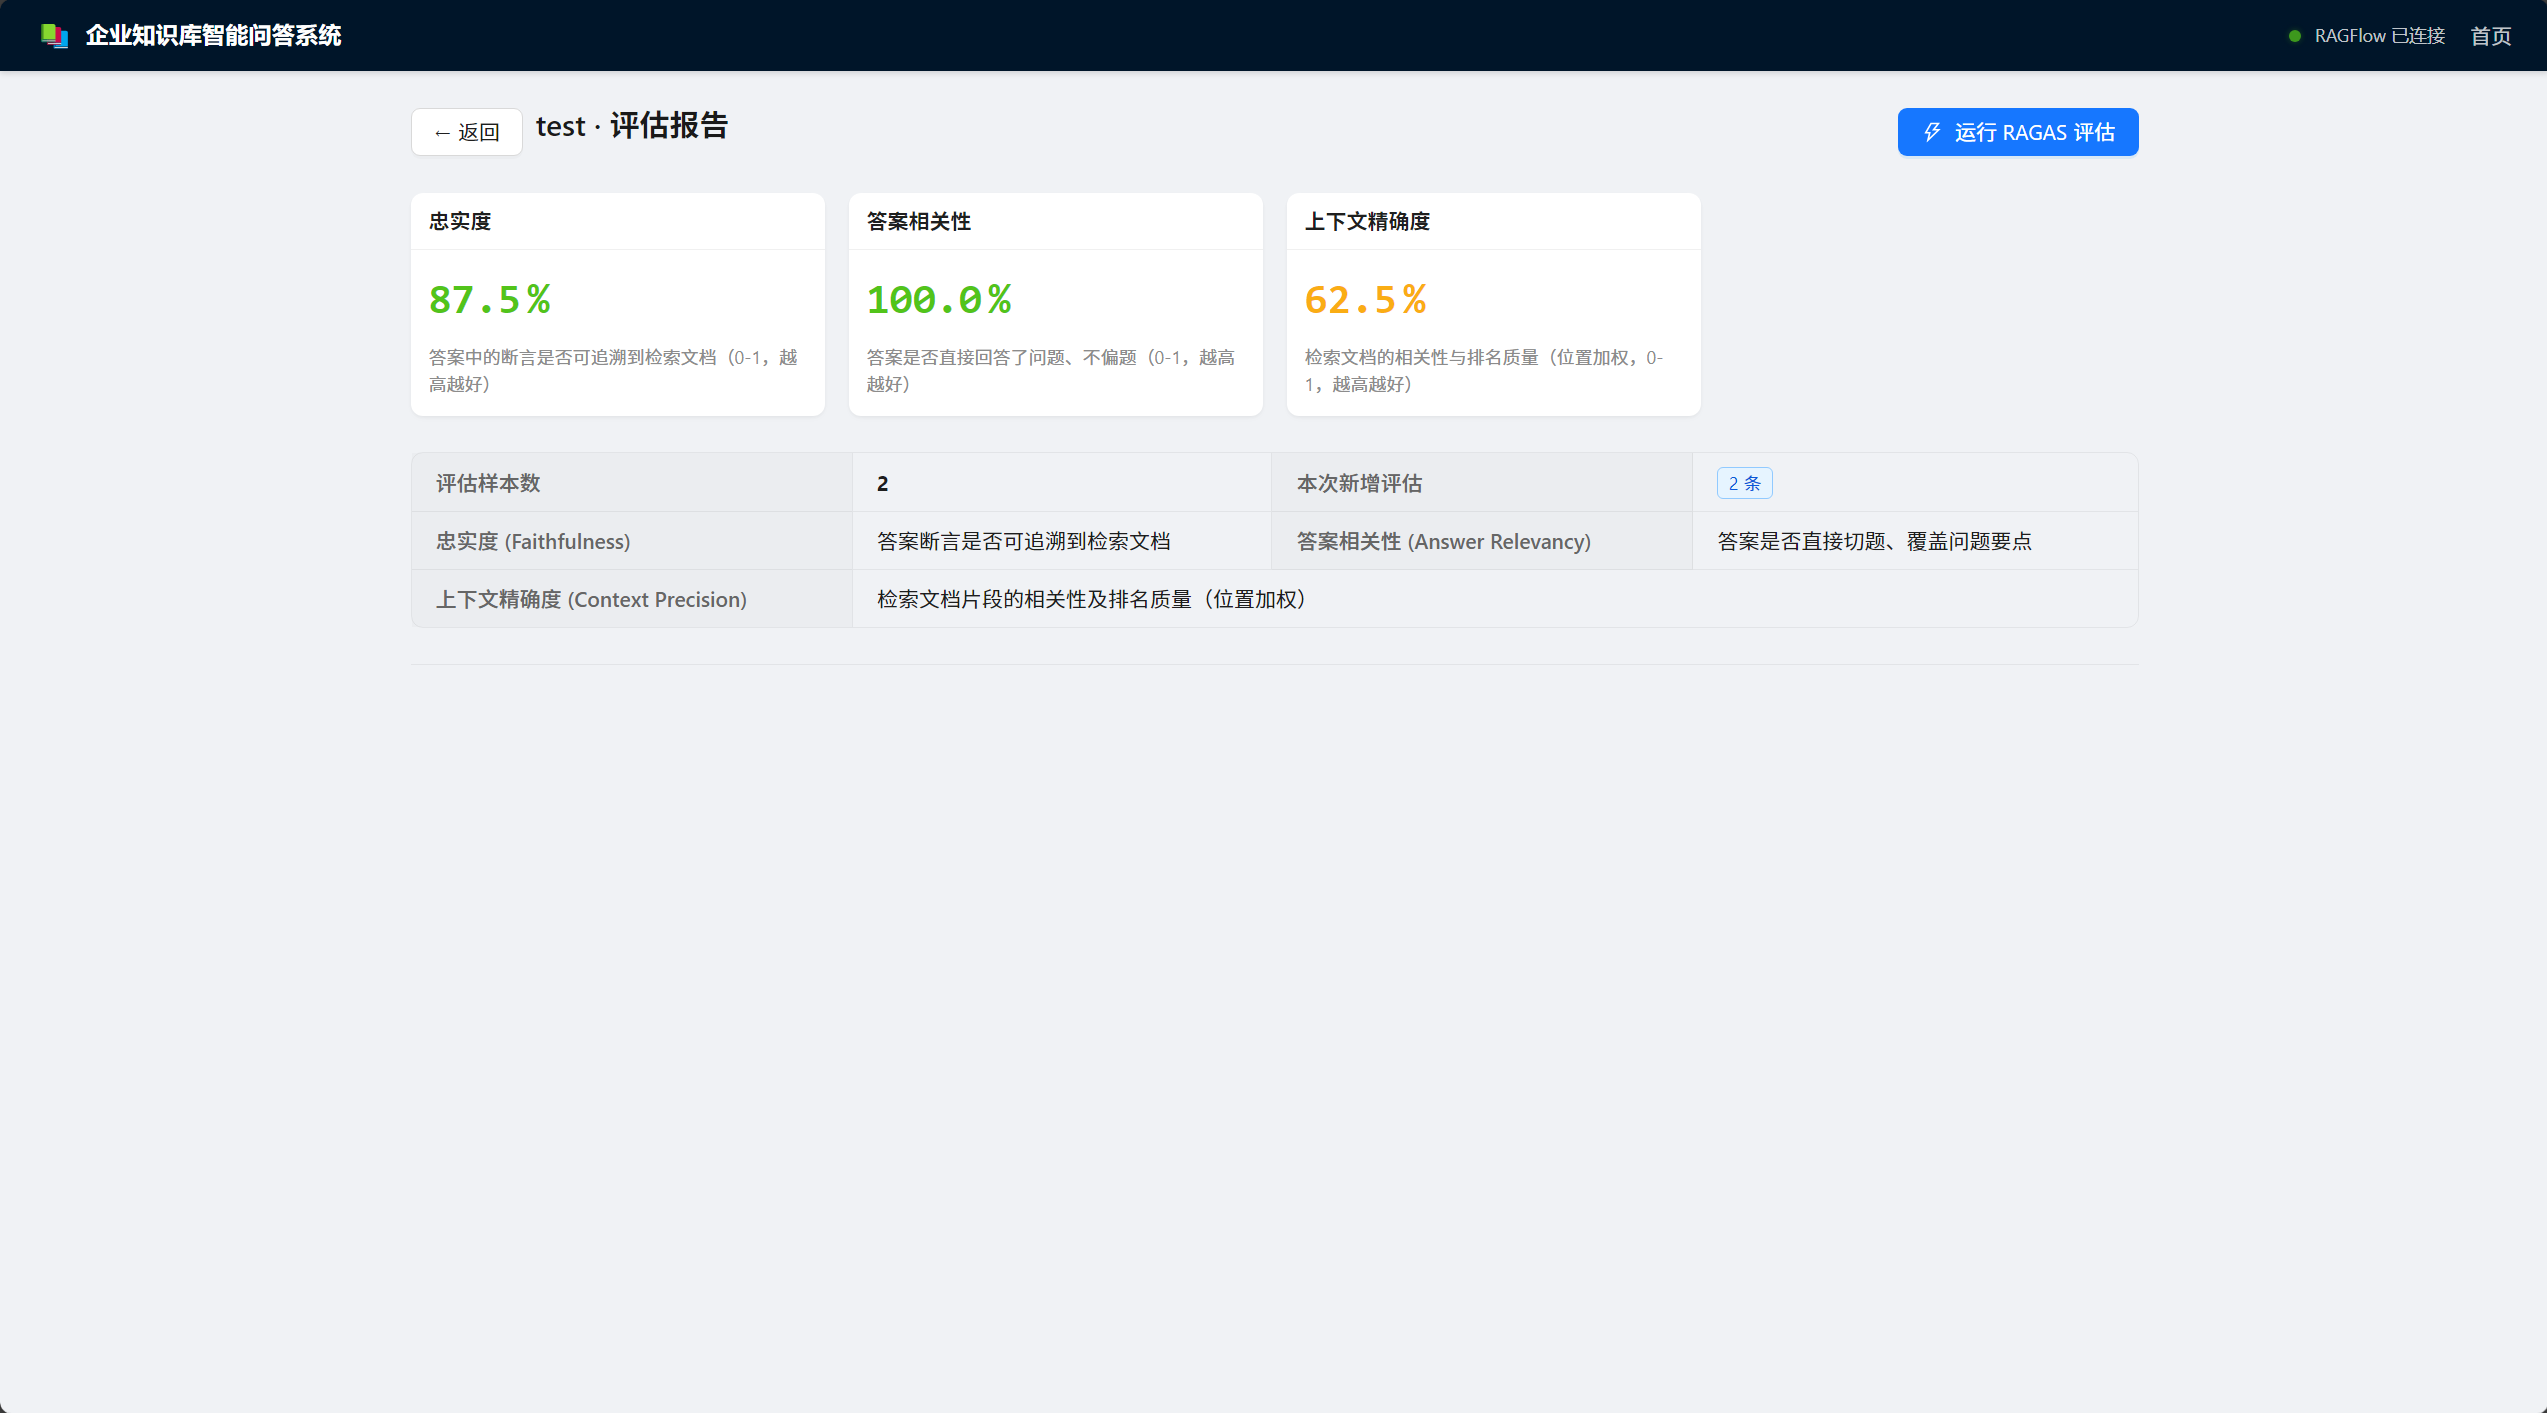
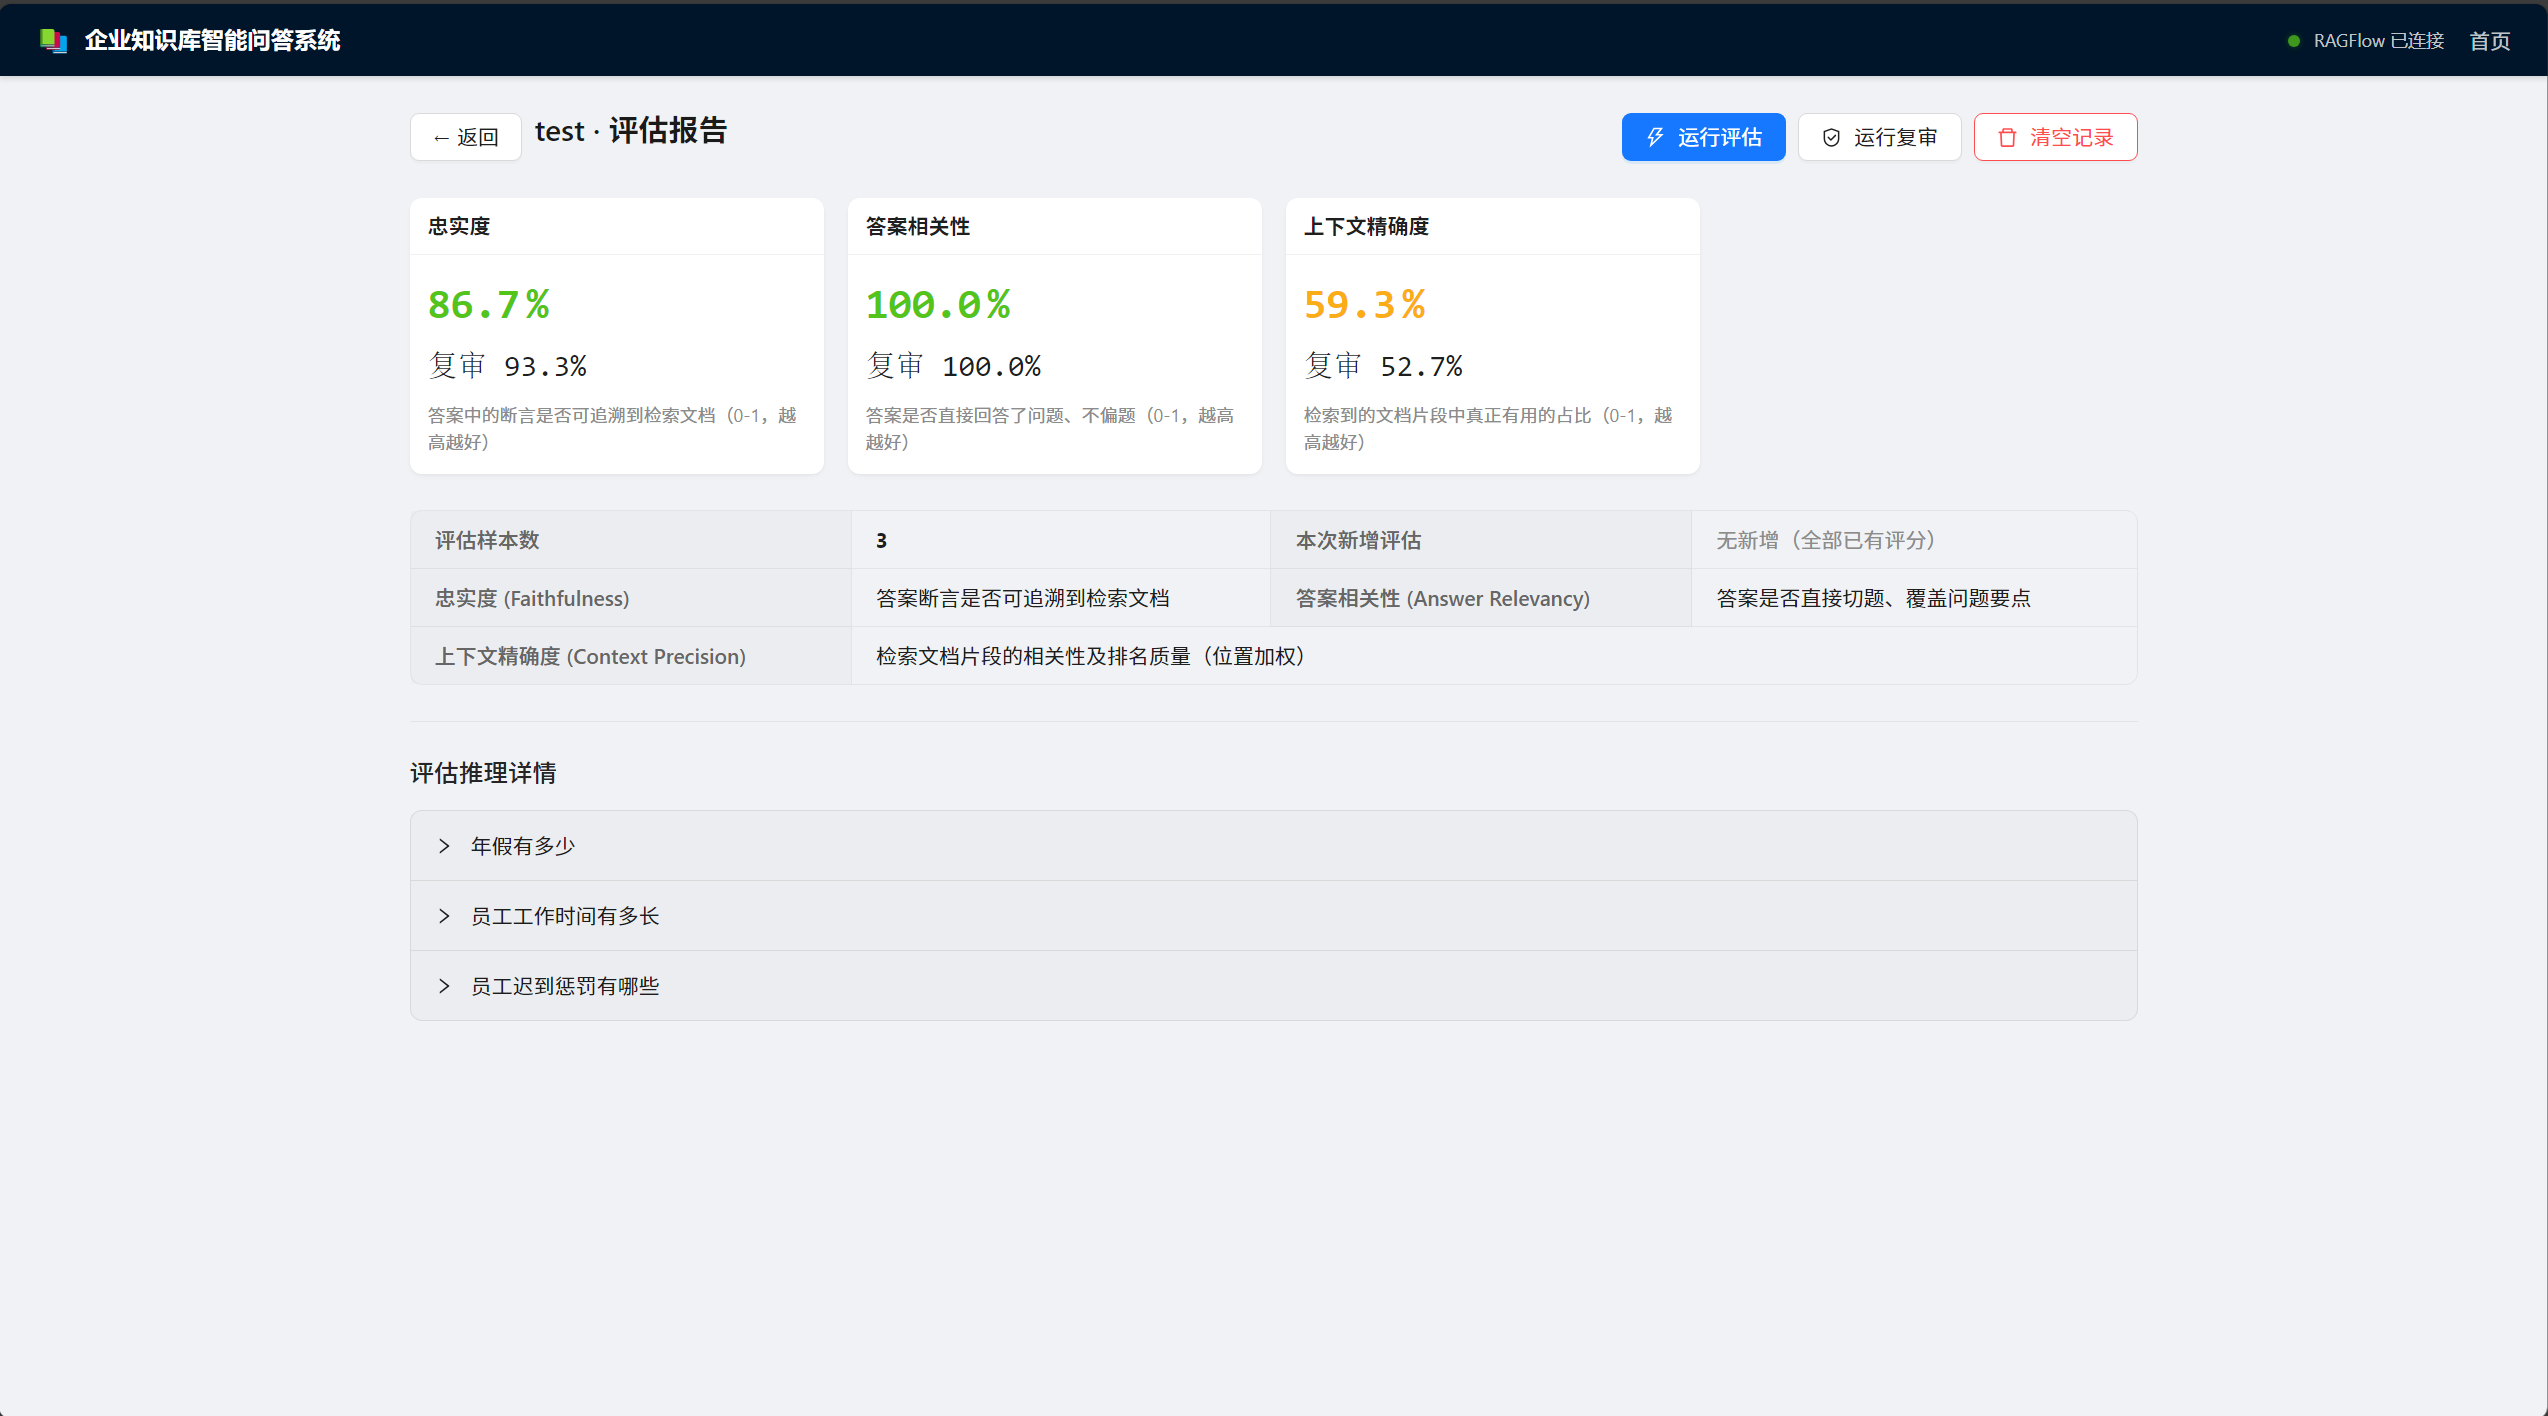
docs: 更新 README 截图和架构描述
- 替换评估报告截图为最新 ragas 评估页面
- 新增评估推理详情截图
- 更新核心技术组件表（新增 DashScope、Kimi）
- 更新架构图多厂商 LLM 布局
- 更新 RAGAS 评估详解（多厂商分工、复审环节、推理可见）
- 更新设计决策表
- 更新 API 参考表（新增 review/details/records 端点）

diff --git a/README.md b/README.md
@@ -42,16 +42,18 @@
 |---------|---------------|
 | ![智能问答](docs/images/qa-chat.png) | ![评估报告](docs/images/eval-report.png) |
 
-| RAGFlow 文档引擎 |
-|-----------------|
-| ![RAGFlow控制台](docs/images/ragflow-console.png) |
+| 评估推理详情 | RAGFlow 文档引擎 |
+|------------|-----------------|
+| ![评估推理详情](docs/images/eval-detail.png) | ![RAGFlow控制台](docs/images/ragflow-console.png) |
 
 ### 核心技术组件
 
 | 组件 | 作用 | 官方地址 |
 |------|------|---------|
 | [RAGFlow](https://github.com/infiniflow/ragflow) | 文档解析、分块、向量化、混合检索 | https://ragflow.io/ |
-| [DeepSeek](https://platform.deepseek.com/) | LLM 生成与评估 | https://api.deepseek.com |
+| [DeepSeek](https://platform.deepseek.com/) | Q&A 问答生成 | https://api.deepseek.com |
+| [DashScope](https://dashscope.aliyun.com/) | Qwen 评估模型 | https://dashscope.aliyun.com/ |
+| [Kimi (Moonshot)](https://platform.moonshot.cn/) | 跨厂商复审模型 | https://platform.moonshot.cn/ |
 | [RAGAS](https://github.com/vibrantlabsai/ragas) | RAG 质量评估框架 | https://docs.ragas.io/ |
 | [FastAPI](https://fastapi.tiangolo.com/) | 后端 API 框架 | https://github.com/fastapi/fastapi |
 | [Ant Design Vue](https://antdv.com/) | 前端 UI 组件库 | https://github.com/vueComponent/ant-design-vue |
@@ -78,15 +80,16 @@ FastAPI 后端 (Python 3.11)
   ├─ evaluation/runner.py
   │   ├─ Faithfulness 评估（陈述拆解 → 逐条验证）
   │   ├─ Answer Relevancy 评估（问题要点覆盖检查）
-  │   └─ Context Precision 评估（位置加权 Precision@k）
+  │   ├─ Context Precision 评估（位置加权 Precision@k）
+  │   └─ 复审 Review（跨厂商复核，可独立触发）
   │
   ▼
-┌──────────┬──────────────────┬─────────────────┐
-│  MySQL   │     RAGFlow      │   DeepSeek API  │
-│  元数据   │  文档解析/分块    │  deepseek-v4-pro│
-│  聊天记录 │  向量化/混合检索   │  deepseek-v4-flash│
-│  评估数据 │  (Docker 部署)    │  (评估)          │
-└──────────┴──────────────────┴─────────────────┘
+┌──────────┬──────────────────┬─────────────────────────────────┐
+│  MySQL   │     RAGFlow      │   多厂商 LLM                     │
+│  元数据   │  文档解析/分块    │   Q&A: DeepSeek (deepseek-v4-pro)│
+│  聊天记录 │  向量化/混合检索   │   评估: DashScope/Qwen (qwen-plus)│
+│  评估数据 │  (Docker 部署)    │   复审: Kimi (kimi-k2.5)          │
+└──────────┴──────────────────┴─────────────────────────────────┘
 ```
 
 **文档入库流水线：** 上传 → RAGFlow 解析 + 分块 + Embedding → MySQL 记录状态
@@ -398,10 +401,11 @@ curl -X POST http://localhost:8000/api/v1/eval/run \
 
 ### 设计要点
 
-- **评估模型**：使用 `deepseek-v4-flash`（成本远低于 v4-pro，评估场景只需简单判断）
-- **确定性输出**：`temperature=0` + `seed=42`，同一输入始终得到相同分数
+- **多厂商分工**：Q&A 用 DeepSeek，评估用 DashScope/Qwen，复审用 Kimi，避免同一模型自评偏差
+- **独立复审环节**：复审为单独按钮触发，可对已评估记录进行跨厂商复核，调整幅度 > 0.1 时采纳复审分数
+- **并发执行**：3 项指标并发评估 + 3 项指标并发复审，信号量控制防 API 限流
 - **增量评估**：已评分的条目自动跳过，避免重复消耗 token
-- **并发执行**：3 个样本 + 3 个指标并发调用，评估速度提升约 3 倍
+- **推理可见**：评估详情页完整展示 AI 的拆解声明、逐条判定和理由，复审理由同时展示
 
 ---
 
@@ -422,9 +426,12 @@ curl -X POST http://localhost:8000/api/v1/eval/run \
 | `GET` | `/api/v1/qa/history/{kb_id}` | 获取历史问答记录 |
 | `DELETE` | `/api/v1/qa/session/{kb_id}/{sid}` | 删除对话会话 |
 | `POST` | `/api/v1/eval/run` | 运行 RAGAS 评估 |
-| `GET` | `/api/v1/eval/report/{kb_id}` | 获取评估报告 |
+| `POST` | `/api/v1/eval/review` | 运行跨厂商复审 |
+| `GET` | `/api/v1/eval/report/{kb_id}` | 获取评估报告（含复审分数） |
 | `GET` | `/api/v1/eval/data/{kb_id}` | 获取评估原始数据 |
-| `GET` | `/api/v1/health` | 健康检查（含 RAGFlow 连通性） |
+| `GET` | `/api/v1/eval/details/{kb_id}` | 获取评估推理详情（含复审理由） |
+| `DELETE` | `/api/v1/eval/records/{kb_id}` | 清空评估记录 |
+| `GET` | `/api/v1/health` | 健康检查（含三厂商连通性） |
 
 ---
 
@@ -446,7 +453,7 @@ MP/
 ├── services/                  # 业务逻辑层
 │   ├── kb_service.py          #   知识库业务 + RAGFlow dataset 管理
 │   ├── qa_service.py          #   RAG 管道：关键词提取 → 检索 → 生成
-│   └── llm_service.py         #   DeepSeek 调用（流式 + JSON 模式 + seed 固定）
+│   └── llm_service.py         #   多厂商 LLM 调用（DeepSeek/DashScope/Kimi，流式+JSON）
 │
 ├── models/                    # 数据层
 │   ├── schemas.py             #   Pydantic 请求/响应校验
@@ -454,7 +461,7 @@ MP/
 │
 ├── evaluation/                # RAGAS 评估子系统
 │   ├── collector.py           #   从 ChatHistory + EvaluationRecord 采集数据
-│   └── runner.py              #   LLM-as-Judge：3 指标 × 3 并发 × 增量跳过
+│   └── runner.py              #   LLM-as-Judge：3 指标并发评估 + 跨厂商复审
 │
 ├── core/                      # 本地降级模块（RAGFlow 离线时启用）
 │   ├── parser.py              #   PyMuPDF + python-docx 文档解析
@@ -480,12 +487,12 @@ MP/
 | 决策 | 选择 | 理由 |
 |------|------|------|
 | 文档引擎 | RAGFlow | 开箱即用的解析/分块/向量化/混合检索/Reranker，避免手写整套 RAG 管道 |
-| LLM 模型 | DeepSeek | 中文能力强、成本为 OpenAI 的 1/10、API 完全兼容 OpenAI SDK |
-| 评估模型 | deepseek-v4-flash | 评估场景只需 yes/no 判断，flash 比 pro 快 3 倍且便宜 |
+| Q&A LLM | DeepSeek | 中文能力强、成本为 OpenAI 的 1/10、API 完全兼容 OpenAI SDK |
+| 评估模型 | DashScope/Qwen | 无并发限制，避免自评估偏差（与 Q&A 不同厂商） |
+| 复审模型 | Kimi | 跨厂商第三方复审，复核评估者打分是否合理 |
 | 流式传输 | SSE | 单向流式场景 SSE 比 WebSocket 更简单，CDN/代理兼容性好 |
-| 评估一致性 | temperature=0 + seed=42 | 结构化评估 Prompt + 确定性参数，确保每次评估结果一致 |
+| 并发策略 | ThreadPoolExecutor + Semaphore | 信号量控并发：Kimi=3(组织限制), DashScope=10；三项指标并发执行 |
 | 检索优化 | LLM 关键词提取 | 短查询（如"有多少表"）直接搜索命中率低，先拆成关键词再检索 |
-| 并发策略 | ThreadPoolExecutor(3) | I/O 密集型 LLM 调用，3 并发在速度和 API 限流之间取平衡 |
 | 降级设计 | 本地解析 + Qdrant | RAGFlow 离线时自动切换，系统仍可用 |
 
 ---